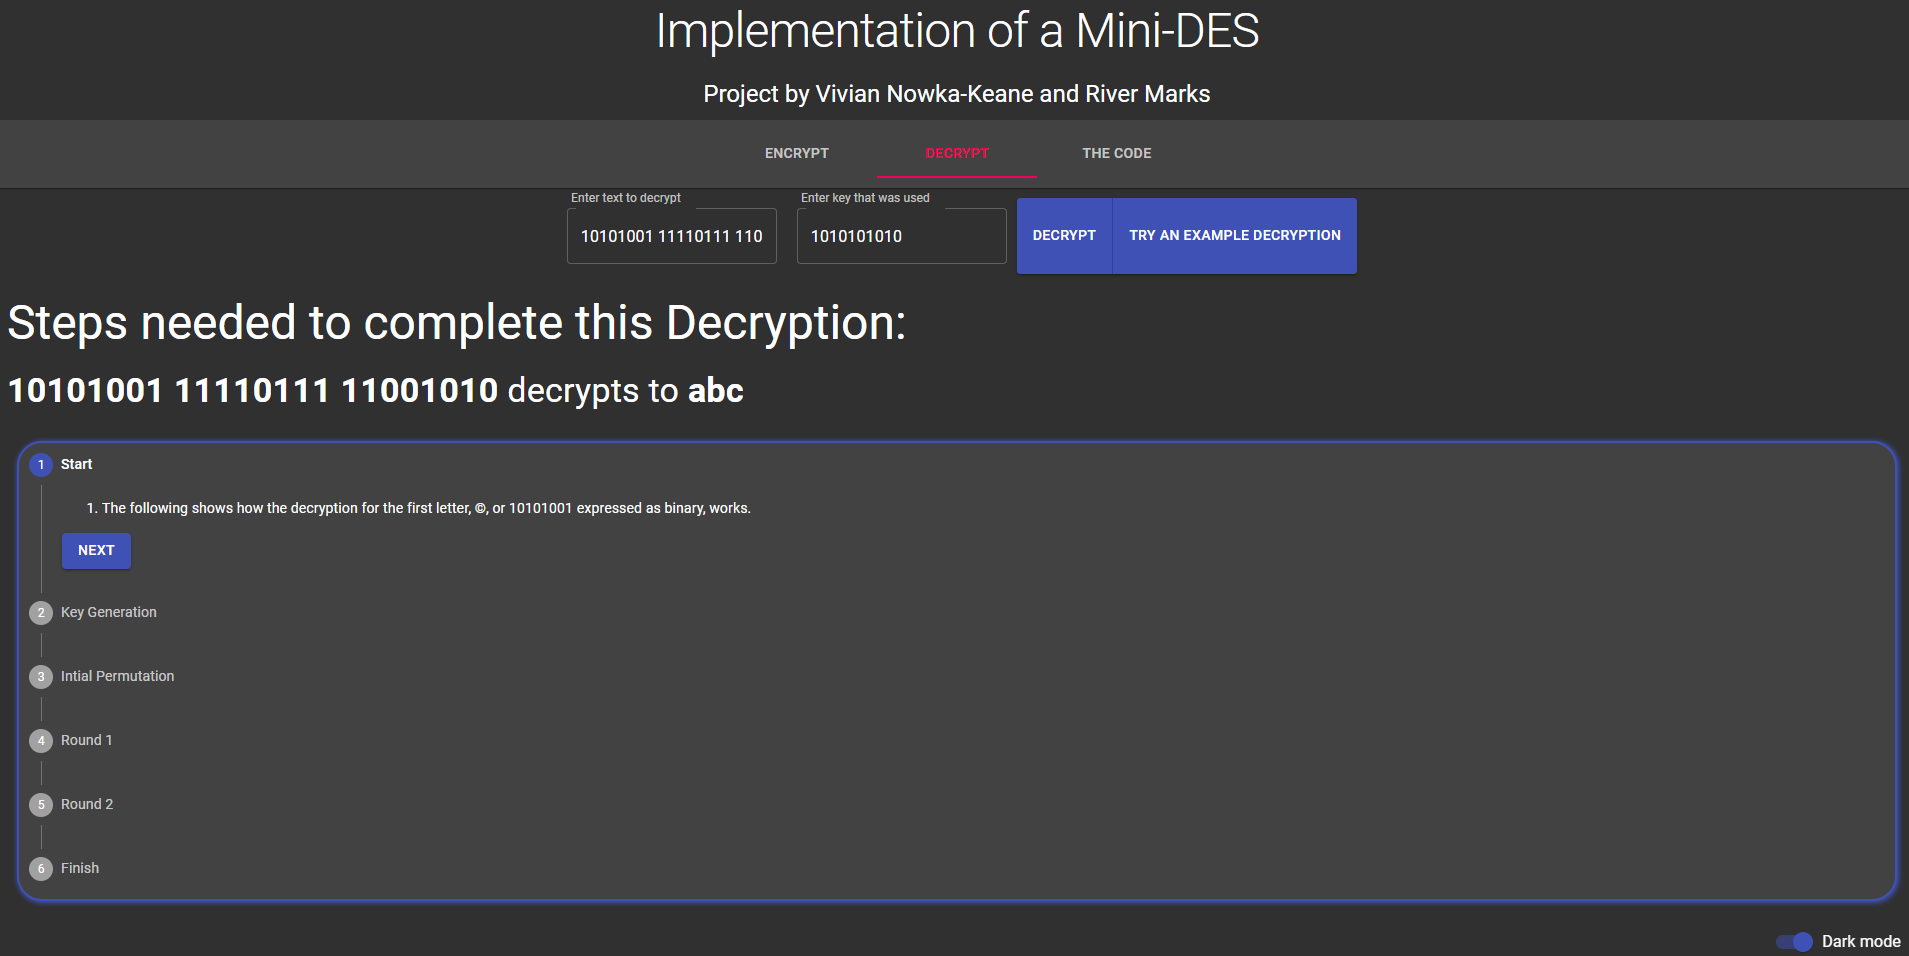
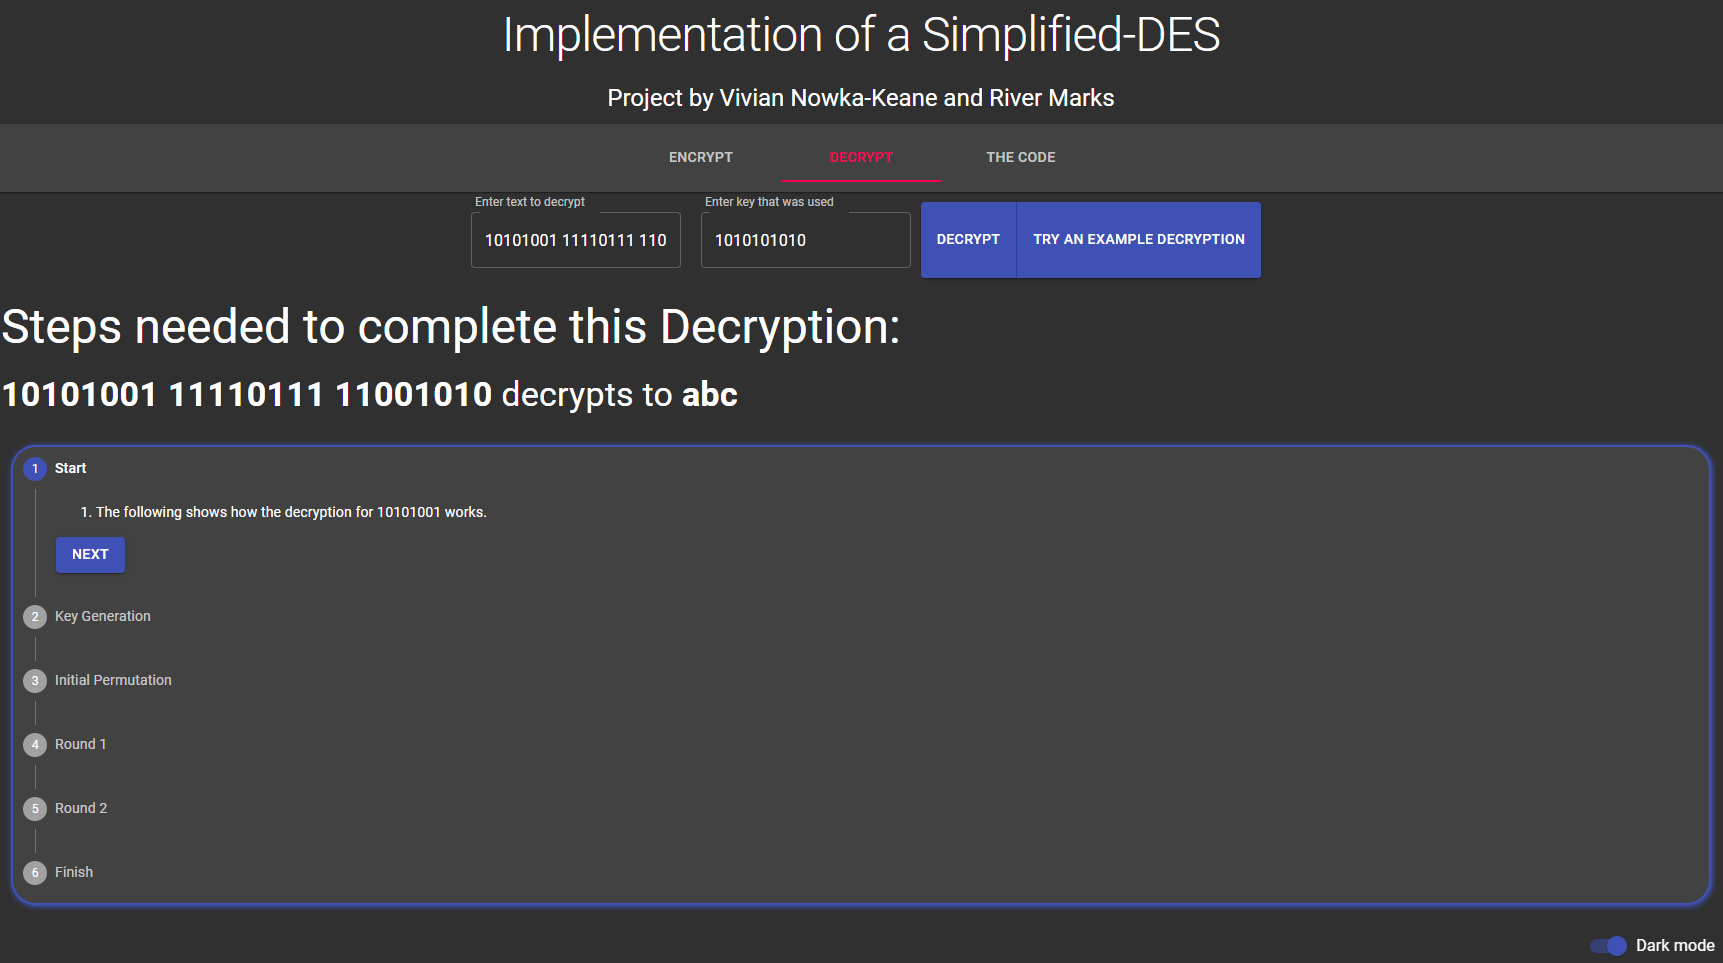
Some quick updates to the screenshots and decryption

diff --git a/src/Components/App/App.jsx b/src/Components/App/App.jsx
@@ -317,9 +317,9 @@ const App = () => {
           </Button>
           <Button
             onClick={() => {
-              setEncryptedText('òDWW¡Ò(¡ÙWË');
+              setEncryptedText('11110010 11101000 10111111 10111111 00001001 11010010 00101000 00001001 01010001 10111111 10100011');
               setDecryptionKey('1010101010');
-              decryptMessage('òDWW¡Ò(¡ÙWË', '1010101010');
+              decryptMessage('11110010 11101000 10111111 10111111 00001001 11010010 00101000 00001001 01010001 10111111 10100011', '1010101010');
             }}
           >
             Try an Example Decryption
